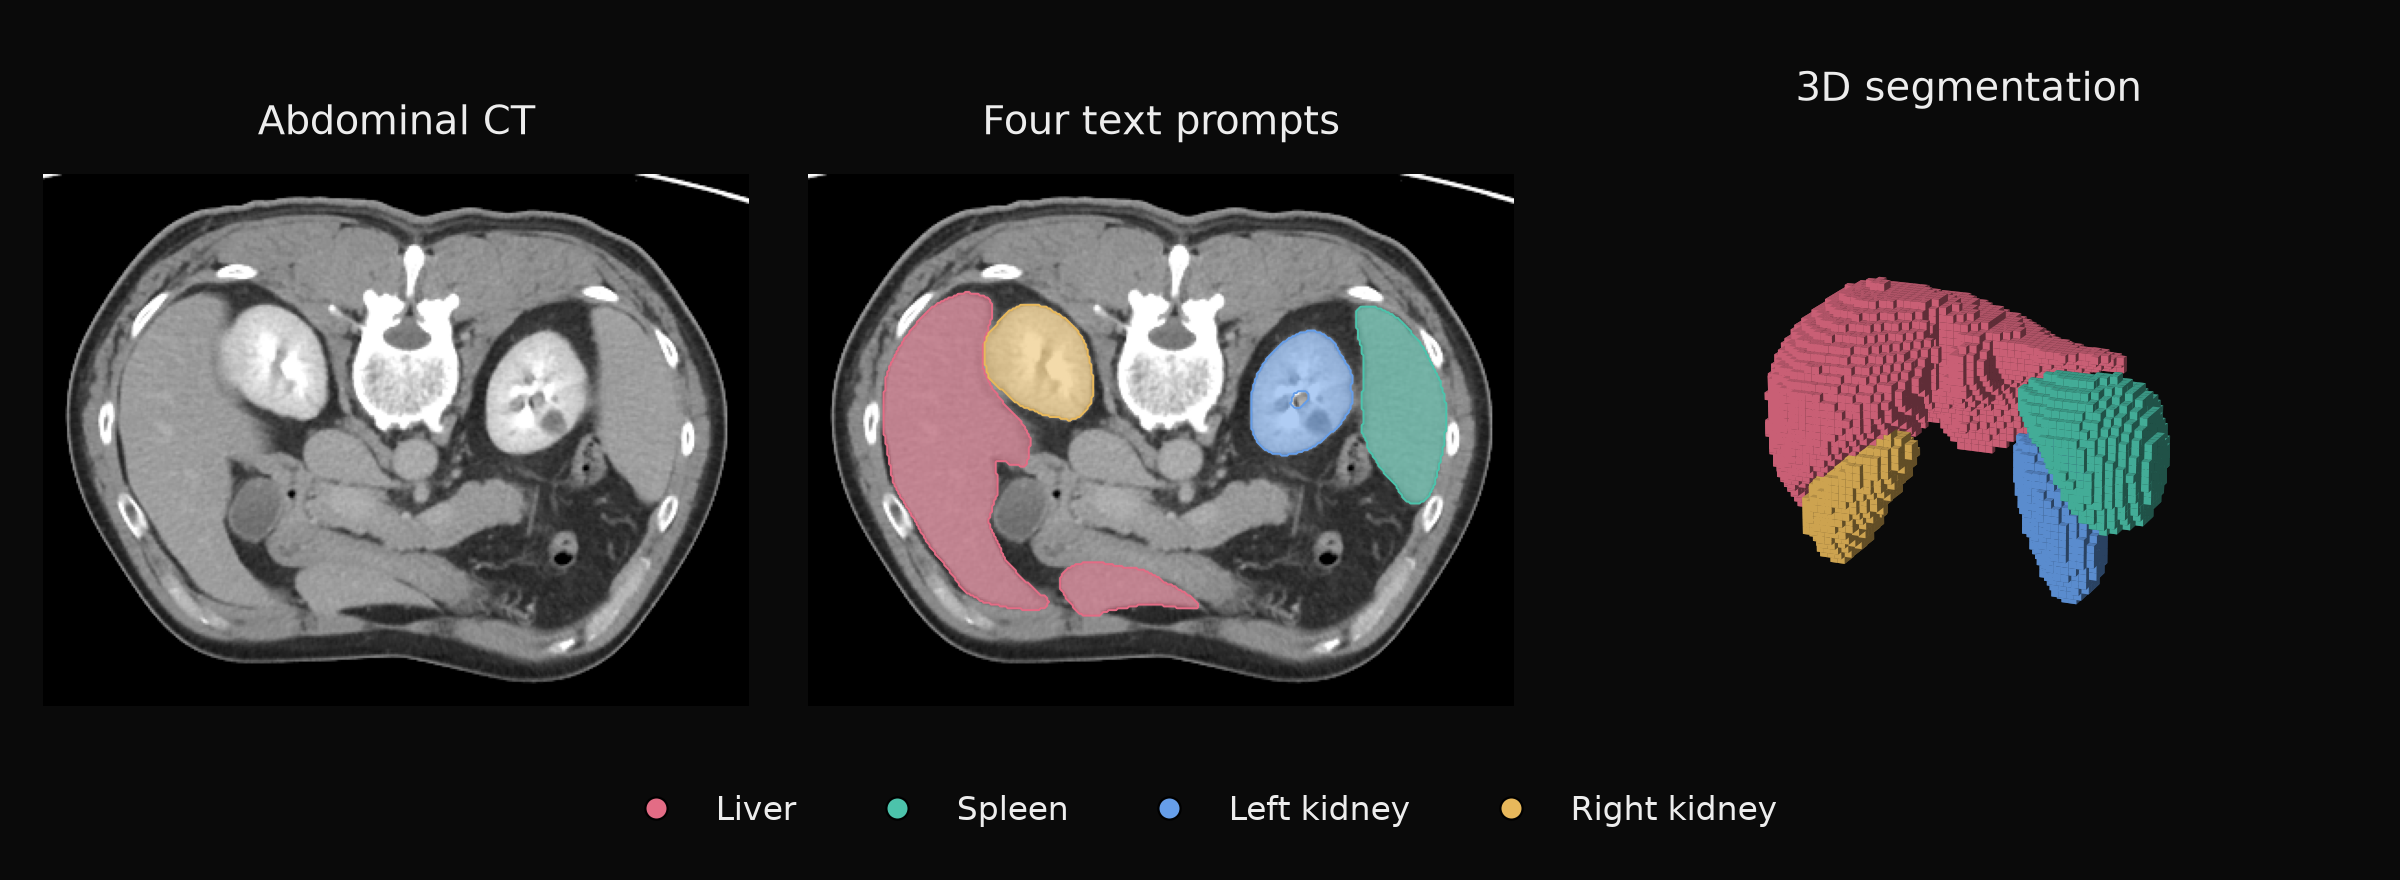
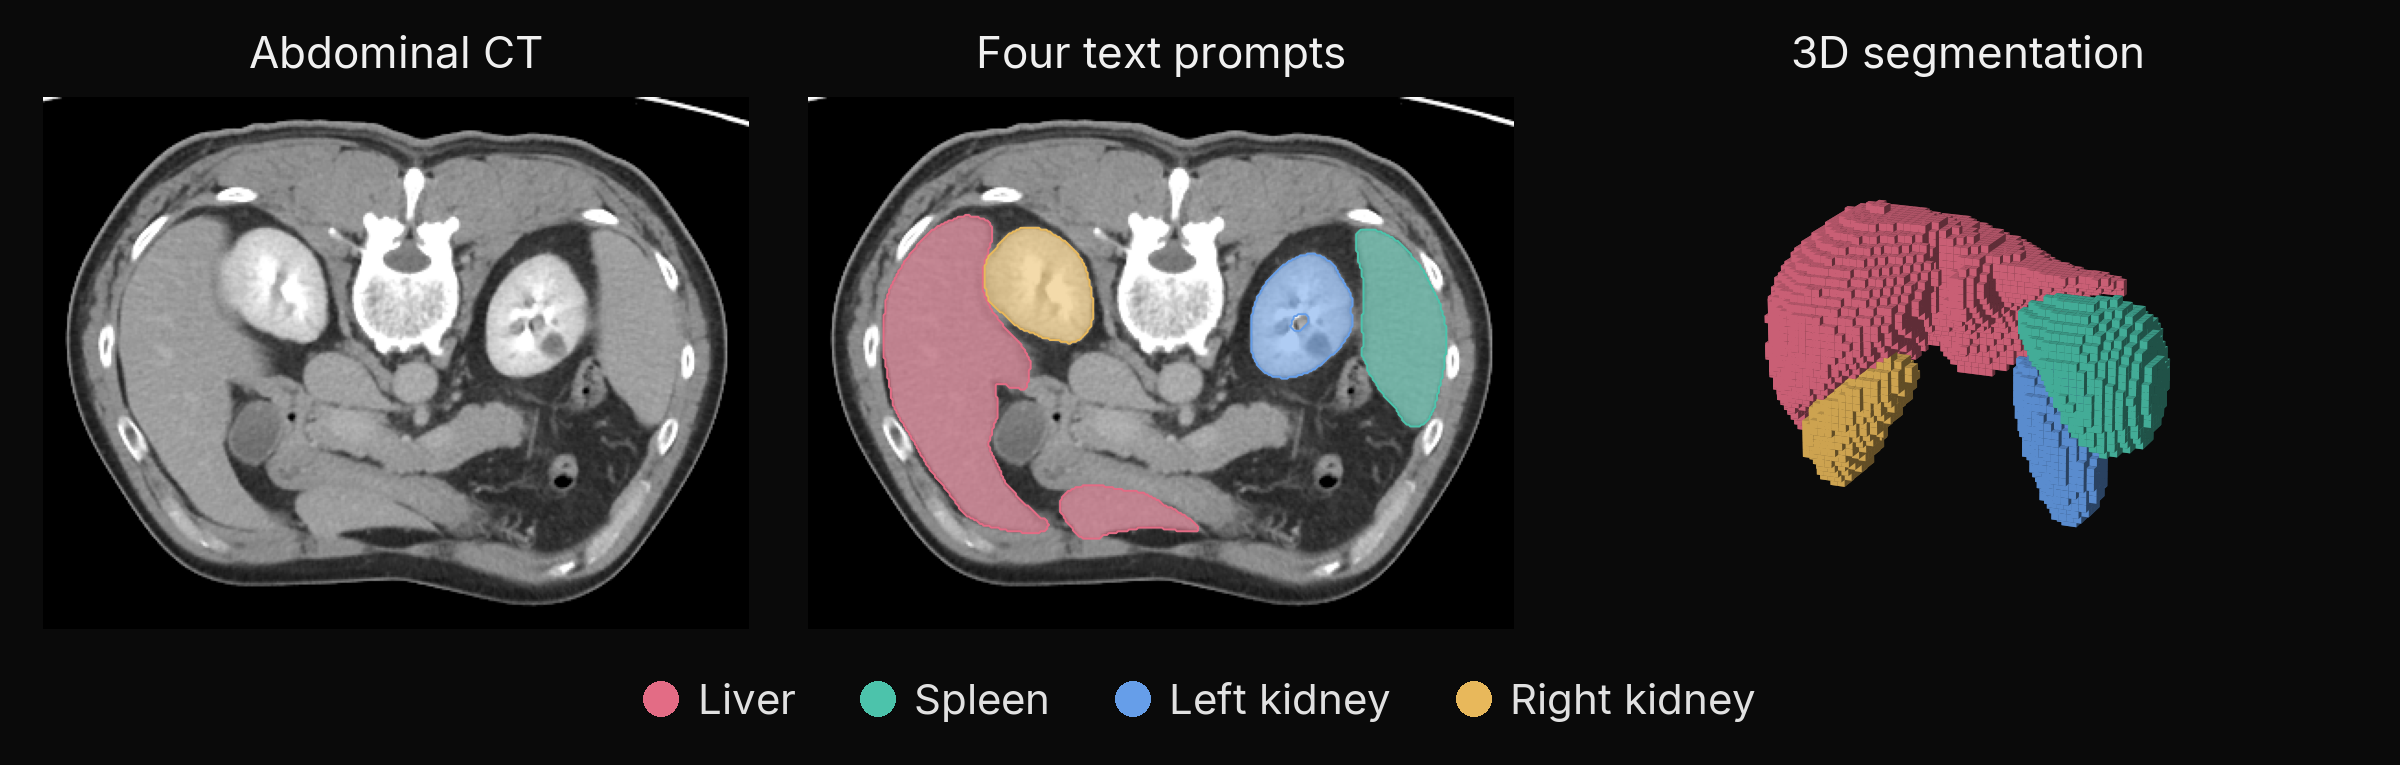
Relabel the README hero in Inter and load it from main
Titles and legend are redrawn in Inter Regular at a size proportional to the image width and centered over each panel. Image panels are unchanged.

diff --git a/README.md b/README.md
@@ -11,7 +11,7 @@ Segment 3D medical images from text prompts with Microsoft BioMedParse v2 and na
 [![Hugging Face](https://img.shields.io/badge/%F0%9F%A4%97_Hugging_Face-weights-yellow)](https://huggingface.co/MedMLX/biomedparse-v2-mlx)
 [![MedMLX](https://img.shields.io/badge/MedMLX-runtime-A51C30)](https://github.com/MedMLX/medmlx)
 
-<img src="https://raw.githubusercontent.com/MedMLX/biomedparse-mlx/v0.1.6/docs/example-abdomen.png" alt="Abdominal CT segmented from four text prompts: liver, spleen and both kidneys" width="100%">
+<img src="https://raw.githubusercontent.com/MedMLX/biomedparse-mlx/main/docs/example-abdomen.png" alt="Abdominal CT segmented from four text prompts: liver, spleen and both kidneys" width="100%">
 
 </div>
 
